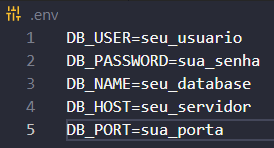
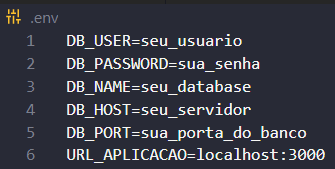
:ambulance: Criação de parâmetro para indicar a URL da aplicação.

diff --git a/src/database/config/database.js b/src/database/config/database.js
@@ -2,6 +2,20 @@ require("dotenv-safe").config();
 
 const { DB_USER, DB_PASSWORD, DB_NAME, DB_HOST, DB_PORT } = process.env;
 
+var opcoes;
+
+// Verifica se está executando no Heroku ou localmente, para ativar ou não o SSL.
+if (process.env.NODE_ENV == "production") {
+  opcoes = {
+    ssl: {
+      require: true,
+      rejectUnauthorized: false,
+    },
+  };
+} else {
+  opcoes = {};
+}
+
 module.exports = {
   username: DB_USER,
   password: DB_PASSWORD,
@@ -9,10 +23,5 @@ module.exports = {
   host: DB_HOST,
   port: DB_PORT,
   dialect: "postgres",
-  dialectOptions: {
-    ssl: {
-      require: true,
-      rejectUnauthorized: false,
-    },
-  },
+  dialectOptions: opcoes,
 };

diff --git a/src/swagger.js b/src/swagger.js
@@ -1,4 +1,7 @@
 const swaggerAutogen = require("swagger-autogen")();
+require("dotenv-safe").config();
+
+const { URL_APLICACAO } = process.env;
 
 const outputFile = "./src/swagger_output.json";
 const endpointFiles = ["./src/app.js"];
@@ -9,7 +12,7 @@ const doc = {
     description:
       "Desafio final da 3ª Edição do Luiza<Code>. Desenvolvimento de um serviço HTTP resolvendo a funcionalidade de OmniChannel do cliente",
   },
-  host: "localhost:3000",
+  host: URL_APLICACAO,
   basePath: "/",
   schemes: ["http", "https"],
   consumes: ["application/json"],

diff --git a/README.md b/README.md
@@ -125,7 +125,7 @@ A seguir estão as instruções para a instalação, configuração e uso da API
 
 1. Criar um arquivo na raiz do projeto, chamado [.env].
 
-2. Copiar o conteúdo do arquivo [.env.example] e setar com as configurações do seu banco de dados.
+2. Copiar o conteúdo do arquivo [.env.example] e setar com as configurações do seu banco de dados e a URL da aplicação.
 
 ![Configuração do banco][config-bd]
 
